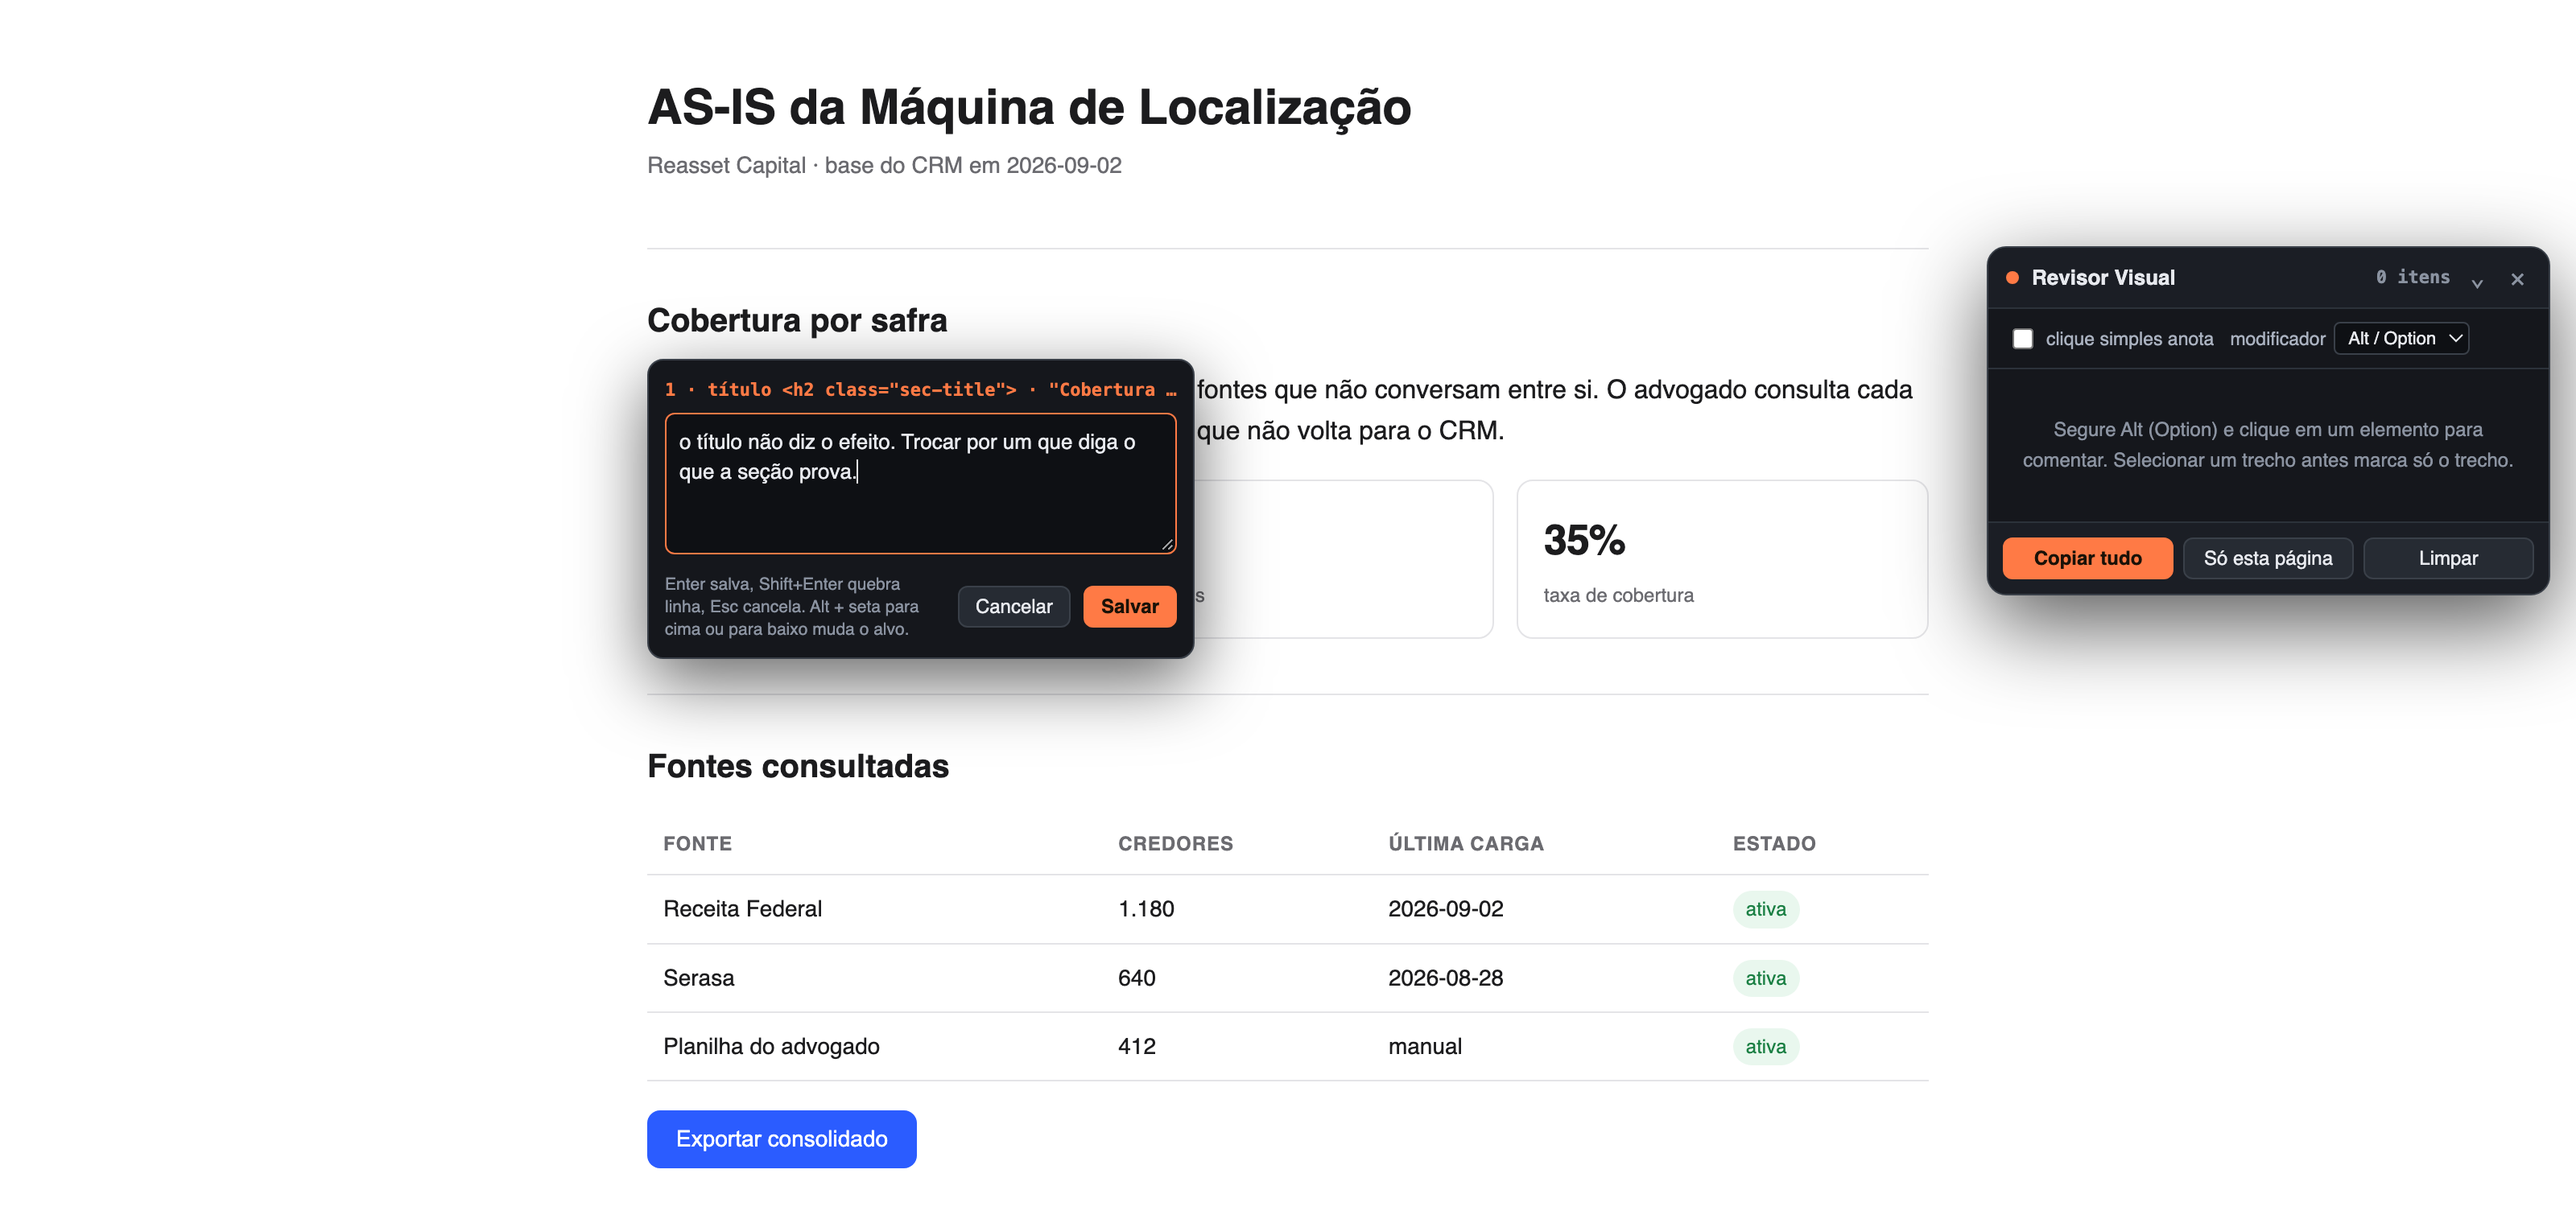
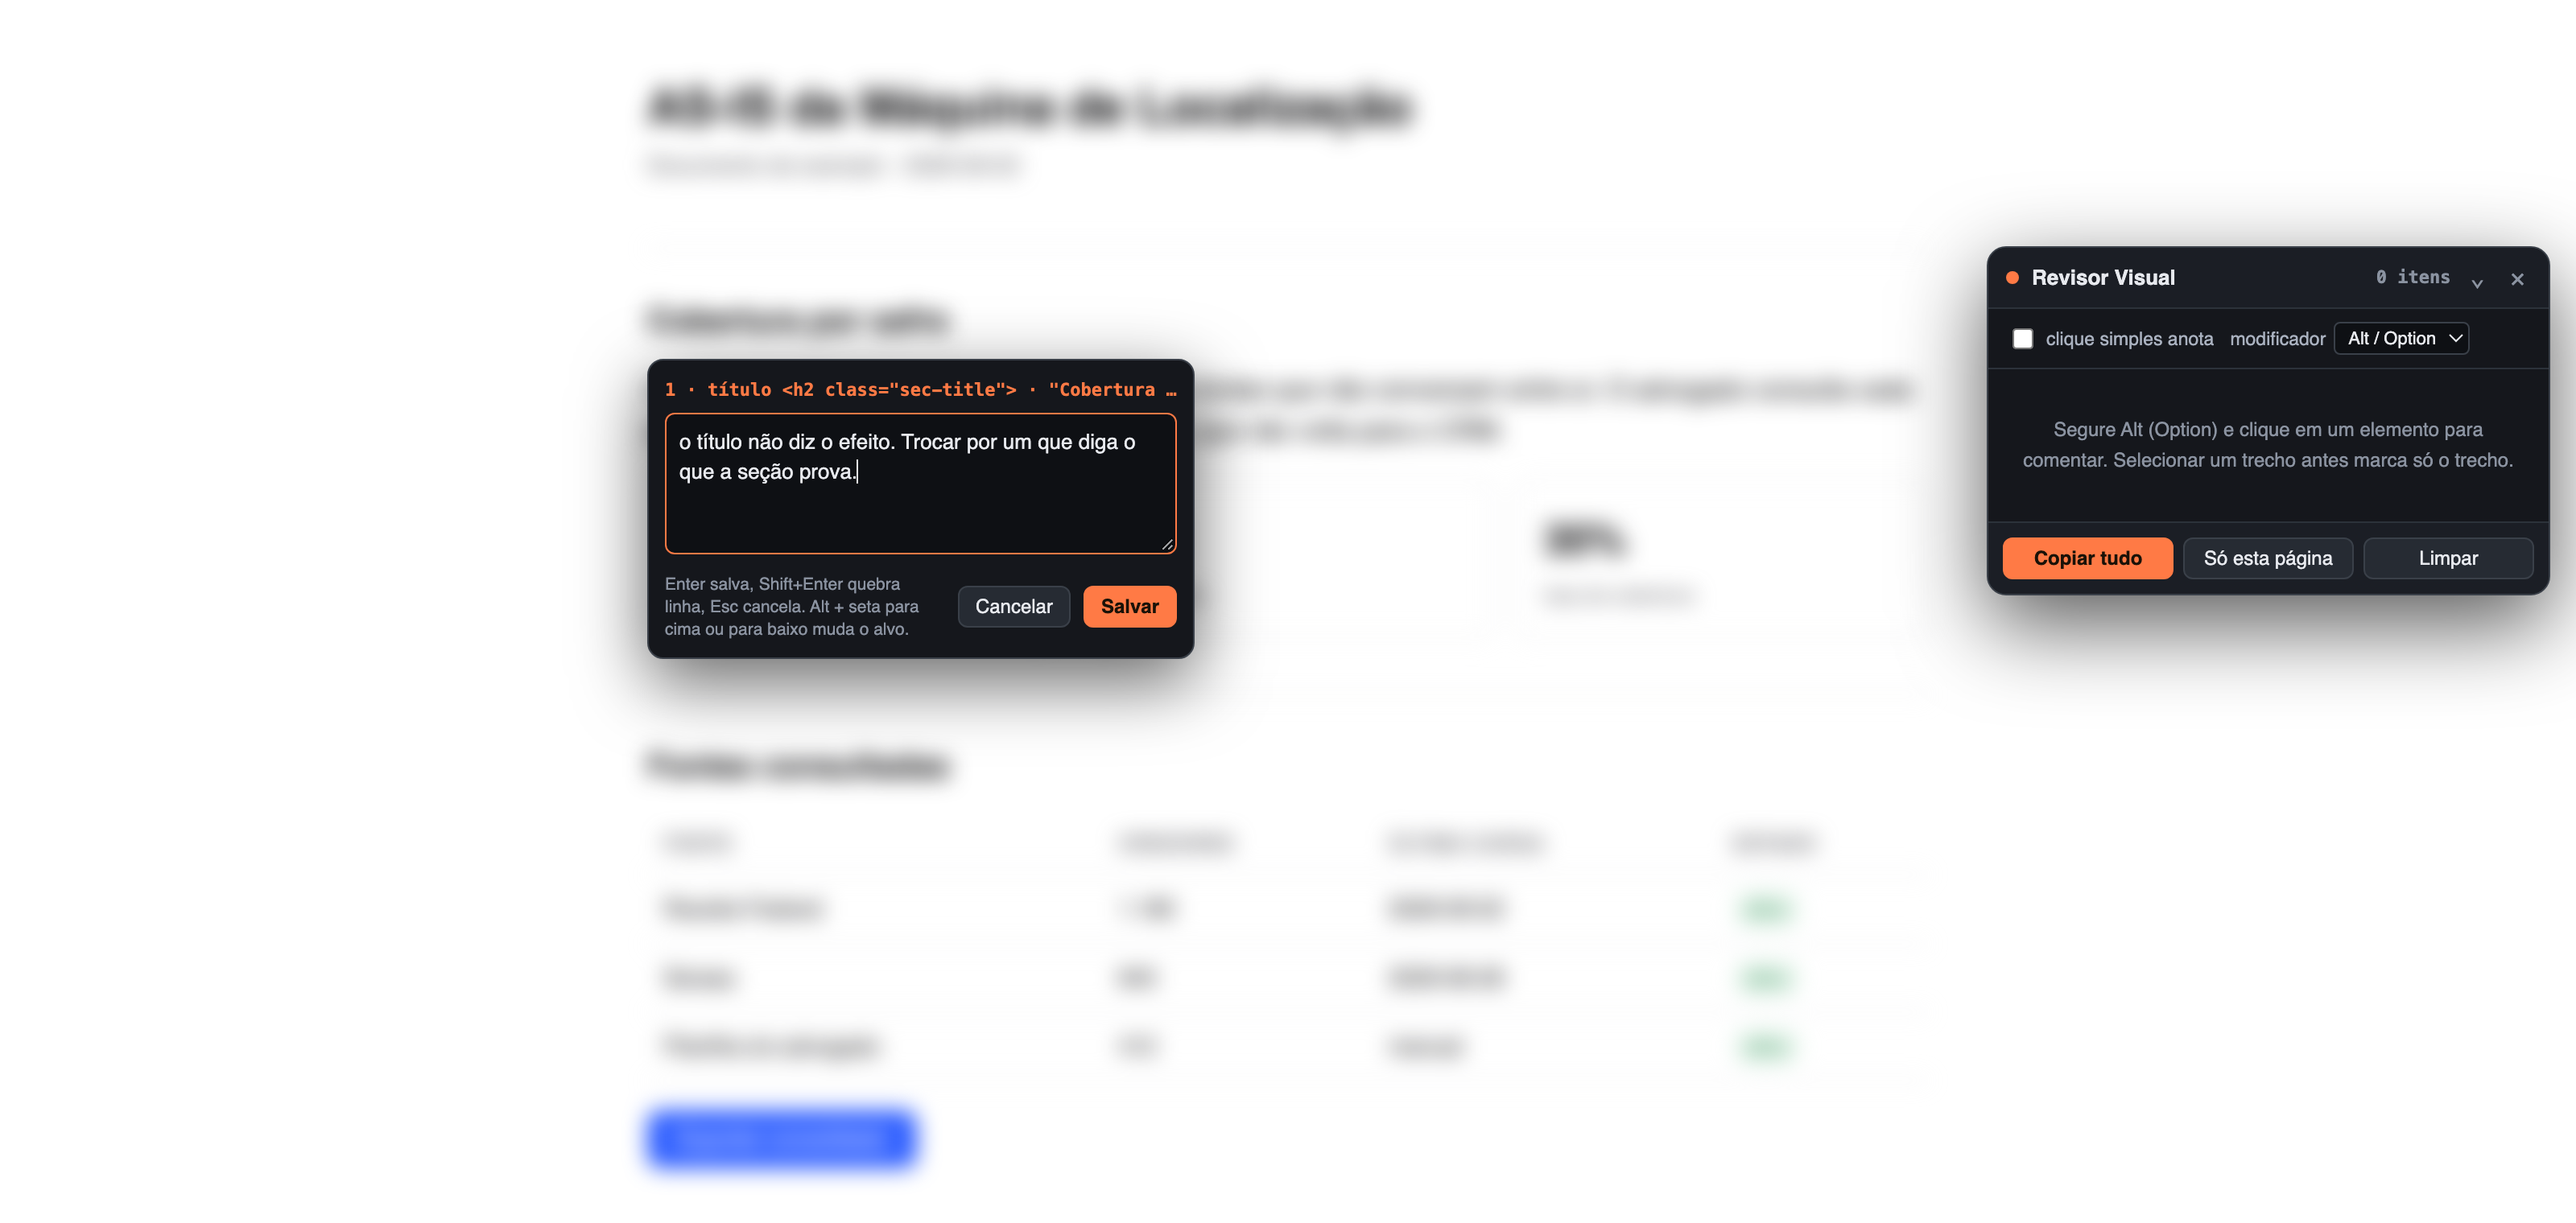
borra o conteudo da pagina nos screenshots e mantem a extensao nitida

diff --git a/docs/demo.html b/docs/demo.html
@@ -5,6 +5,8 @@
  *{box-sizing:border-box}
  body{margin:0;font:16px/1.6 -apple-system,"Segoe UI",Roboto,sans-serif;color:var(--tinta);background:var(--fundo)}
  .wrap{max-width:860px;margin:0 auto;padding:48px 32px 80px}
+ /* anonimiza o conteudo da pagina no screenshot, sem tocar na extensao */
+ body.anon .wrap{filter:blur(7px);-webkit-filter:blur(7px)}
  h1{font-size:30px;line-height:1.25;margin:0 0 6px}
  .sub{color:var(--fraco);font-size:14px;margin:0 0 40px}
  section{padding:28px 0;border-top:1px solid var(--linha)}
@@ -22,7 +24,7 @@
 </style></head><body>
 <div class="wrap">
   <h1>AS-IS da Máquina de Localização</h1>
-  <p class="sub">Reasset Capital · base do CRM em 2026-09-02</p>
+  <p class="sub">Documento de exemplo · 2026-09-02</p>
 
   <section id="diagnostico">
     <h2 class="sec-title">Cobertura por safra</h2>
@@ -48,6 +50,7 @@
   </section>
 </div>
 <script>
+ if (new URLSearchParams(location.search).get('anon') !== '0') document.body.classList.add('anon');
  /* estado inicial: modo ligado e clique simples anota, para a demonstração */
  try { localStorage.setItem('rv_state', JSON.stringify({ active:true, sticky:false, modifier:'alt', items:[], nextN:1, panelPos:null, minimized:false })); } catch(e){}
 </script>

diff --git a/README.md b/README.md
@@ -7,12 +7,12 @@ Você liga o modo, segura Alt e clica no elemento que está errado. A extensão
 reconhece o que você selecionou, desenha o contorno em volta dele e abre uma
 caixa para você escrever.
 
-![Caixa de comentário aberta sobre um título, com o painel da extensão à direita](docs/comentario.png)
+![Caixa de comentário aberta sobre um título de uma página borrada, com o painel da extensão à direita](docs/comentario.png)
 
 No fim, **Copiar tudo** põe na área de transferência um texto pronto para colar no
 Claude. Os marcadores laranjas ficam na página e o painel lista os comentários.
 
-![Página com dois comentários marcados e o painel listando os dois](docs/painel.png)
+![Página borrada com dois marcadores laranjas, e o painel da extensão listando os dois comentários](docs/painel.png)
 
 Funciona em arquivo local (`file://`), em `localhost` e em qualquer site. Serve
 para HTML estático e para página gerada por React.

diff --git a/CONTRIBUTING.md b/CONTRIBUTING.md
@@ -86,5 +86,9 @@ for s in 1 2; do "$CH" --headless --disable-gpu --hide-scrollbars \
 mv docs/shot-1.png docs/comentario.png && mv docs/shot-2.png docs/painel.png
 ```
 
-Funciona porque o `content.js` tem caminho para quando não há extensão: ele cai
+Funciona porque o `content.js` tem caminho para quando não há extensão. Ele cai
 para `localStorage` e expõe `window.__rv.setActive()`.
+
+O conteúdo da página sai borrado de propósito, por um `filter: blur(7px)` aplicado
+só no `.wrap`. A interface da extensão vive fora dele, num host com shadow DOM, e
+por isso continua nítida. Para capturar sem o blur, acrescente `&anon=0` na URL.
